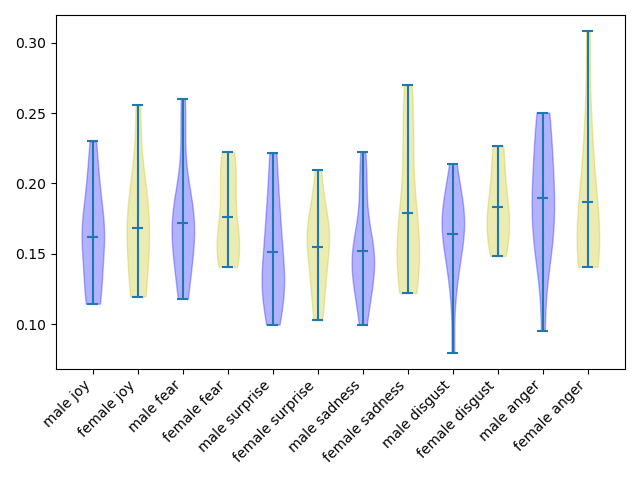
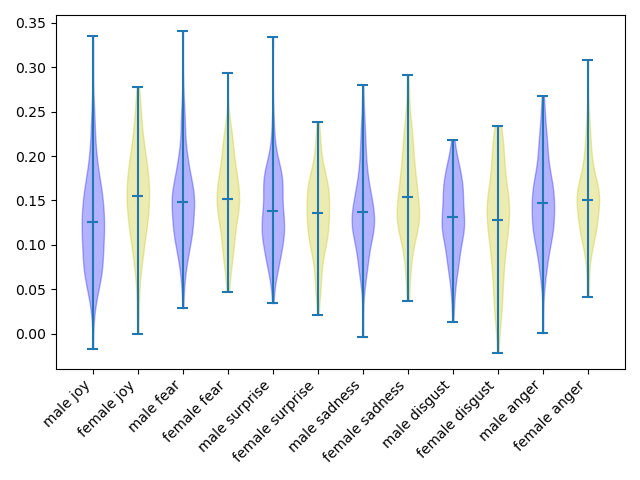
remove unused chars, new gender plots

diff --git a/myth2vec.py b/myth2vec.py
@@ -79,10 +79,10 @@ women = [
 'cassandra'
 ]
 
-characters_more = ['achilles', 'ades', 'adonis', 'aegisthus', 'aeneas', 'agamemnon', 'aizawa', 'ajax', 'akhilleu', 'albus', 'alecto', 'alfred', 'allison', 'amphitrite', 'andromache', 'annabeth', 'anteros', 'antigone', 'antilochus', 'aphrodite', 'apollo', 'apollon', 'arachne', 'ares', 'ariadne', 'artemis', 'arthur', 'asclepius', 'asterion', 'asterius', 'astyanax', 'atalanta', 'athena', 'atlas', 'atropos', 'author', 'automedon', 'aziraphale', 'ben', 'bianca', 'bobby', 'briseis', 'bruce', 'calliope', 'callisto', 'calypso', 'cassandra', 'castiel', 'castor', 'cerberus', 'chaos', 'charon', 'chiron', 'circe', 'clark', 'clay', 'clint', 'clio', 'clotho', 'clytemnestra', 'cronus', 'crowley', 'cupid', 'daedalus', 'daidalos', 'damian', 'daphne', 'darcy', 'dean', 'death', 'deidameia', 'deiphobus', 'demeter', 'derek', 'diana', 'dick', 'diomedes', 'dionusos', 'dionysus', 'draco', 'ebe', 'echidna', 'echo', 'eileithyia', 'ekate', 'electra', 'elene', 'emma', 'enjolras', 'enyo', 'eos', 'ephaistos', 'epimetheus', 'erakles', 'ere', 'erebus', 'erik', 'eris', 'ermes', 'eros', 'estelle', 'estia', 'eurudike', 'eurydice', 'evil', 'frigg', 'gabriel', 'gaia', 'galatea', 'ganymede', 'ginny', 'grantaire', 'greek', 'hades', 'hannibal', 'harmonia', 'harry', 'hebe', 'hecate', 'hector', 'hecuba', 'helen', 'helenus', 'helios', 'hephaestus', 'hera', 'heracles', 'hercules', 'hermes', 'hermione', 'heron', 'hesione', 'hestia', 'huntresses', 'hyacinth', 'hyacinthus', 'hypnos', 'icarus', 'ikaros', 'inanna', 'iphigeneia', 'iphigenia', 'iris', 'isaac', 'james', 'jane', 'jason', 'john', 'jormungandr', 'kassandra', 'kerberos', 'keroberos', 'klutaimnestra', 'kore', 'kronos', 'lachesis', 'laura', 'leda', 'leo', 'leto', 'loki', 'louis', 'lucifer', 'luna', 'lydia', 'maenads', 'maia', 'makaria', 'mary', 'medea', 'medusa', 'megaera', 'melinoe', 'melpomene', 'menelaos', 'menelaus', 'merlin', 'metis', 'midoriya', 'minos', 'minotaur', 'minthe', 'mnemosyne', 'moirai', 'muses', 'mycroft', 'narcissus', 'natasha', 'nemesis', 'neoptolemus', 'nestor', 'nico', 'nyx', 'odin', 'odinn', 'odusseus', 'odysseus', 'orion', 'orpheus', 'pan', 'pandora', 'paris', 'pasiphae', 'patroclus', 'patroklos', 'pegasus', 'peggy', 'peleus', 'penelope', 'pentheus', 'pepper', 'percy', 'persephone', 'perseus', 'peter', 'phobos', 'phoenix', 'piper', 'pollux', 'poseidon', 'priam', 'prometheus', 'psyche', 'pygmalion', 'reader', 'remus', 'rey', 'rhea', 'ron', 'sally', 'sam', 'sansa', 'satyrs', 'selene', 'seraphim', 'sheriff', 'sherlock', 'sir', 'sirens', 'sirius', 'sisyphus', 'steve', 'stiles', 'tartarus', 'technoblade', 'telemachus', 'thalia', 'thanatos', 'themis', 'theseus', 'thetis', 'thor', 'thorr', 'tim', 'tommyinnit', 'tony', 'triton', 'tyndareus', 'typhon', 'uranus', 'wanda', 'wilbur', 'will', 'zagreus', 'zephyrus', 'zeus', 'eros']
+characters_more = ['achilles', 'ades', 'adonis', 'aegisthus', 'aeneas', 'agamemnon', 'aizawa', 'ajax', 'albus', 'alecto', 'alfred', 'allison', 'amphitrite', 'andromache', 'annabeth', 'anteros', 'antigone', 'antilochus', 'aphrodite', 'apollo', 'apollon', 'arachne', 'ares', 'ariadne', 'artemis', 'arthur', 'asclepius', 'asterion', 'asterius', 'astyanax', 'atalanta', 'athena', 'atlas', 'atropos', 'author', 'automedon', 'aziraphale', 'ben', 'bianca', 'bobby', 'briseis', 'bruce', 'calliope', 'callisto', 'calypso', 'cassandra', 'castiel', 'castor', 'cerberus', 'chaos', 'charon', 'chiron', 'circe', 'clark', 'clay', 'clint', 'clio', 'clotho', 'clytemnestra', 'cronus', 'crowley', 'cupid', 'daedalus', 'damian', 'daphne', 'darcy', 'dean', 'death', 'deidameia', 'deiphobus', 'demeter', 'derek', 'diana', 'dick', 'diomedes', 'dionysus', 'draco', 'ebe', 'echidna', 'echo', 'eileithyia', 'electra', 'emma', 'enjolras', 'enyo', 'eos', 'epimetheus', 'ere', 'erebus', 'erik', 'eris', 'eros', 'estelle', 'eurydice', 'evil', 'frigg', 'gabriel', 'gaia', 'galatea', 'ganymede', 'ginny', 'grantaire', 'greek', 'hades', 'hannibal', 'harmonia', 'harry', 'hebe', 'hecate', 'hector', 'hecuba', 'helen', 'helenus', 'helios', 'hephaestus', 'hera', 'heracles', 'hercules', 'hermes', 'hermione', 'heron', 'hesione', 'hestia', 'huntresses', 'hyacinth', 'hyacinthus', 'hypnos', 'icarus', 'ikaros', 'inanna', 'iphigeneia', 'iphigenia', 'iris', 'isaac', 'james', 'jane', 'jason', 'john', 'jormungandr', 'kassandra', 'kerberos', 'keroberos', 'kore', 'kronos', 'lachesis', 'laura', 'leda', 'leo', 'leto', 'loki', 'louis', 'lucifer', 'luna', 'lydia', 'maenads', 'maia', 'makaria', 'mary', 'medea', 'medusa', 'megaera', 'melinoe', 'melpomene', 'menelaos', 'menelaus', 'merlin', 'metis', 'midoriya', 'minos', 'minotaur', 'minthe', 'mnemosyne', 'moirai', 'muses', 'mycroft', 'narcissus', 'natasha', 'nemesis', 'neoptolemus', 'nestor', 'nico', 'nyx', 'odin', 'odinn', 'odysseus', 'orion', 'orpheus', 'pan', 'pandora', 'paris', 'pasiphae', 'patroclus', 'patroklos', 'pegasus', 'peggy', 'peleus', 'penelope', 'pentheus', 'pepper', 'percy', 'persephone', 'perseus', 'peter', 'phobos', 'phoenix', 'piper', 'pollux', 'poseidon', 'priam', 'prometheus', 'psyche', 'pygmalion', 'reader', 'remus', 'rey', 'rhea', 'ron', 'sally', 'sam', 'sansa', 'satyrs', 'selene', 'seraphim', 'sheriff', 'sherlock', 'sir', 'sirens', 'sirius', 'sisyphus', 'steve', 'stiles', 'tartarus', 'technoblade', 'telemachus', 'thalia', 'thanatos', 'themis', 'theseus', 'thetis', 'thor', 'tim', 'tommyinnit', 'tony', 'triton', 'tyndareus', 'typhon', 'uranus', 'wanda', 'wilbur', 'will', 'zagreus', 'zephyrus', 'zeus', 'eros']
 
-men_more = ['achilles', 'ades', 'adonis', 'aegisthus', 'aeneas', 'agamemnon', 'aizawa', 'ajax', 'akhilleu', 'albus', 'alecto', 'alfred', 'anteros', 'antilochus', 'apollo', 'apollon', 'ares', 'arthur', 'asclepius', 'asterion', 'asterius', 'astyanax', 'atlas', 'automedon', 'aziraphale', 'ben', 'bobby', 'bruce', 'castiel', 'castor', 'charon', 'chiron', 'clark', 'clay', 'clint', 'clio', 'cronus', 'crowley', 'cupid', 'daedalus', 'daidalos', 'damian', 'darcy', 'dean', 'deiphobus', 'derek', 'diana', 'dick', 'diomedes', 'dionusos', 'dionysus', 'draco', 'enjolras', 'ephaistos', 'epimetheus', 'erakles', 'erik', 'ermes', 'eros', 'eros', 'ganymede', 'grantaire', 'hades', 'hannibal', 'harry', 'helenus', 'helios', 'hephaestus', 'heracles', 'hercules', 'hermes', 'heron', 'hyacinth', 'hyacinthus', 'hypnos', 'icarus', 'ikaros', 'isaac', 'james', 'jason', 'john', 'kronos', 'loki', 'louis', 'lucifer', 'menelaos', 'menelaus', 'merlin', 'minos', 'mycroft', 'narcissus', 'neoptolemus', 'nestor', 'nico', 'odin', 'odinn', 'odusseus', 'odysseus', 'orion', 'orpheus', 'pan', 'paris', 'peleus', 'pentheus', 'percy', 'perseus', 'peter', 'phobos', 'pollux', 'poseidon', 'priam', 'prometheus', 'pygmalion', 'remus', 'ron', 'seraphim', 'sherlock', 'sirius', 'sisyphus', 'steve', 'stiles', 'technoblade', 'telemachus', 'theseus', 'thor', 'thorr', 'tim', 'tony', 'triton', 'tyndareus', 'typhon', 'uranus', 'wilbur', 'zagreus', 'zephyrus', 'zeus', 'gabriel', 'patroclus', 'patroklos', 'pegasus', 'thanatos']
-women_more = ['allison', 'amphitrite', 'andromache', 'annabeth', 'antigone', 'aphrodite', 'arachne', 'ariadne', 'artemis', 'atalanta', 'athena', 'atropos', 'bianca', 'briseis', 'calliope', 'callisto', 'calypso', 'cassandra', 'circe', 'clotho', 'clytemnestra', 'daphne', 'deidameia', 'demeter', 'echo', 'eileithyia', 'ekate', 'electra', 'elene', 'emma', 'enyo', 'eos', 'eris', 'estelle', 'estia', 'eurudike', 'eurydice', 'frigg', 'gaia', 'galatea', 'ginny', 'harmonia', 'hebe', 'hecate', 'hector', 'hecuba', 'helen', 'hera', 'hermione', 'hesione', 'hestia', 'inanna', 'iphigeneia', 'iphigenia', 'iris', 'jane', 'kassandra', 'klutaimnestra', 'kore', 'lachesis', 'laura', 'leda', 'leto', 'luna', 'lydia', 'maia', 'makaria', 'mary', 'medea', 'medusa', 'megaera', 'melinoe', 'melpomene', 'metis', 'midoriya', 'minthe', 'mnemosyne', 'moirai', 'muses', 'natasha', 'nemesis', 'nyx', 'pandora', 'pasiphae', 'peggy', 'penelope', 'pepper', 'persephone', 'psyche', 'rey', 'rhea', 'sally', 'sansa', 'selene', 'sirens', 'thalia', 'themis', 'thetis', 'wanda']
+men_more = ['achilles', 'ades', 'adonis', 'aegisthus', 'aeneas', 'agamemnon', 'aizawa', 'ajax', 'albus', 'alecto', 'alfred', 'anteros', 'antilochus', 'apollo', 'apollon', 'ares', 'arthur', 'asclepius', 'asterion', 'asterius', 'astyanax', 'atlas', 'automedon', 'aziraphale', 'ben', 'bobby', 'bruce', 'castiel', 'castor', 'charon', 'chiron', 'clark', 'clay', 'clint', 'clio', 'cronus', 'crowley', 'cupid', 'daedalus', 'damian', 'darcy', 'dean', 'deiphobus', 'derek', 'diana', 'dick', 'diomedes', 'dionysus', 'draco', 'enjolras', 'epimetheus', 'erik', 'eros', 'eros', 'ganymede', 'grantaire', 'hades', 'hannibal', 'harry', 'helenus', 'helios', 'hephaestus', 'heracles', 'hercules', 'hermes', 'heron', 'hyacinth', 'hyacinthus', 'hypnos', 'icarus', 'ikaros', 'isaac', 'james', 'jason', 'john', 'kronos', 'loki', 'louis', 'lucifer', 'menelaos', 'menelaus', 'merlin', 'minos', 'mycroft', 'narcissus', 'neoptolemus', 'nestor', 'nico', 'odin', 'odinn', 'odysseus', 'orion', 'orpheus', 'pan', 'paris', 'peleus', 'pentheus', 'percy', 'perseus', 'peter', 'phobos', 'pollux', 'poseidon', 'priam', 'prometheus', 'pygmalion', 'remus', 'ron', 'seraphim', 'sherlock', 'sirius', 'sisyphus', 'steve', 'stiles', 'technoblade', 'telemachus', 'theseus', 'thor', 'tim', 'tony', 'triton', 'tyndareus', 'typhon', 'uranus', 'wilbur', 'zagreus', 'zephyrus', 'zeus', 'gabriel', 'patroclus', 'patroklos', 'pegasus', 'thanatos']
+women_more = ['allison', 'amphitrite', 'andromache', 'annabeth', 'antigone', 'aphrodite', 'arachne', 'ariadne', 'artemis', 'atalanta', 'athena', 'atropos', 'bianca', 'briseis', 'calliope', 'callisto', 'calypso', 'cassandra', 'circe', 'clotho', 'clytemnestra', 'daphne', 'deidameia', 'demeter', 'echo', 'eileithyia', 'electra', 'emma', 'enyo', 'eos', 'eris', 'estelle', 'eurydice', 'frigg', 'gaia', 'galatea', 'ginny', 'harmonia', 'hebe', 'hecate', 'hector', 'hecuba', 'helen', 'hera', 'hermione', 'hesione', 'hestia', 'inanna', 'iphigeneia', 'iphigenia', 'iris', 'jane', 'kassandra', 'kore', 'lachesis', 'laura', 'leda', 'leto', 'luna', 'lydia', 'maia', 'makaria', 'mary', 'medea', 'medusa', 'megaera', 'melinoe', 'melpomene', 'metis', 'midoriya', 'minthe', 'mnemosyne', 'moirai', 'muses', 'natasha', 'nemesis', 'nyx', 'pandora', 'pasiphae', 'peggy', 'penelope', 'pepper', 'persephone', 'psyche', 'rey', 'rhea', 'sally', 'sansa', 'selene', 'sirens', 'thalia', 'themis', 'thetis', 'wanda']
 
 
 
@@ -369,8 +369,8 @@ def plot_violin(wv):
     emotion_data = []
     emotion_labels = []
     for emotion in emotions:
-        emotion_data_man = [wv.similarity(emotion, man) for man in men]
-        emotion_data_woman = [wv.similarity(emotion, woman) for woman in women]
+        emotion_data_man = [wv.similarity(emotion, man) for man in men_more]
+        emotion_data_woman = [wv.similarity(emotion, woman) for woman in women_more]
         emotion_data.append(emotion_data_man)
         emotion_data.append(emotion_data_woman)
         emotion_labels += [f'male {emotion}', f'female {emotion}']
@@ -392,9 +392,9 @@ def plot_violin(wv):
 def plot_violin_totals(wv):
     emotion_men = []
     emotion_women = []
-    for man in men:
+    for man in men_more:
         emotion_men.append(np.mean([wv.similarity(emotion, man) for emotion in emotions]))
-    for woman in women:
+    for woman in women_more:
         emotion_women.append(np.mean([wv.similarity(emotion, woman) for emotion in emotions]))
 
     print(f'all emotions male vs. female t-test: {ttest_ind(emotion_men, emotion_women)}')
@@ -430,6 +430,8 @@ if __name__ == '__main__':
     # plot_basic_radars(model.wv)
     plot_violin(model.wv)
     plot_violin_totals(model.wv)
+
+    exit()
 
     corpus_genre = load_or_make_genre_corpus()
     print('all', 'fluff', 'angst')
